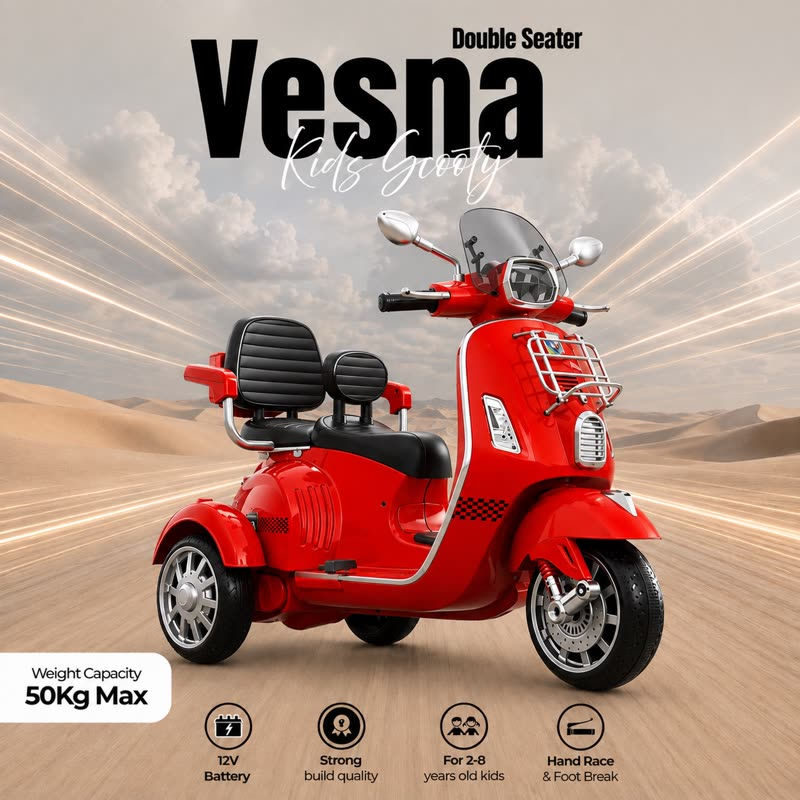
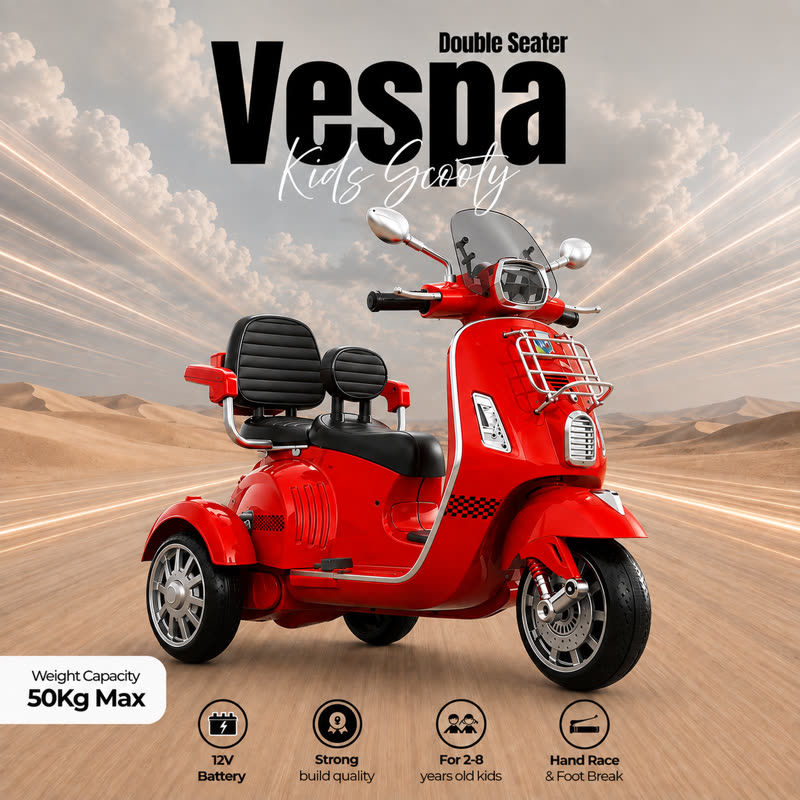
Replace the Vespa photos, tolerate Windows paths in ImageURL
New supplier photos for both scooters, converted to the catalogue's
800x800 JPEG convention (2.2MB PNG -> ~135KB each; at full size they were
roughly 16x heavier than every other product photo, on a site whose
visitors are mostly on mobile data). Kept the existing filenames so the
sheet needs no edit to find them. The spec plates match the sheet already
(2-8 yrs, 50Kg Max, 12V, Hand Race & Foot Break) so no data changed.

Separately: ImageURL now has backslashes normalized to forward slashes.
A Windows path pasted from Explorer ("images\products\x.jpg") is not a
usable URL — the browser treats it as one broken relative segment, and
the product renders as an empty box with nothing logged anywhere to say
why. The sheet now tolerates either form.

diff --git a/js/data.js b/js/data.js
@@ -215,7 +215,12 @@ function rowsToProducts(rows) {
       battery: col(row, 'Battery'),
       braking: col(row, 'Braking'),
       description: col(row, 'Description'),
-      image: col(row, 'ImageURL'),
+      // Windows file paths get pasted into this column ("images\products\x.jpg")
+      // whenever someone copies a path from Explorer. A URL needs forward
+      // slashes, and a browser silently treats a backslash path as a broken
+      // relative URL — the product renders with an empty image box and no error
+      // anywhere. Normalizing here means the sheet tolerates either form.
+      image: col(row, 'ImageURL').replace(/\\/g, '/'),
       badges,
       // Same permissive rule as InStock: only an explicit TRUE promotes a
       // product, so a blank cell never silently features something.
